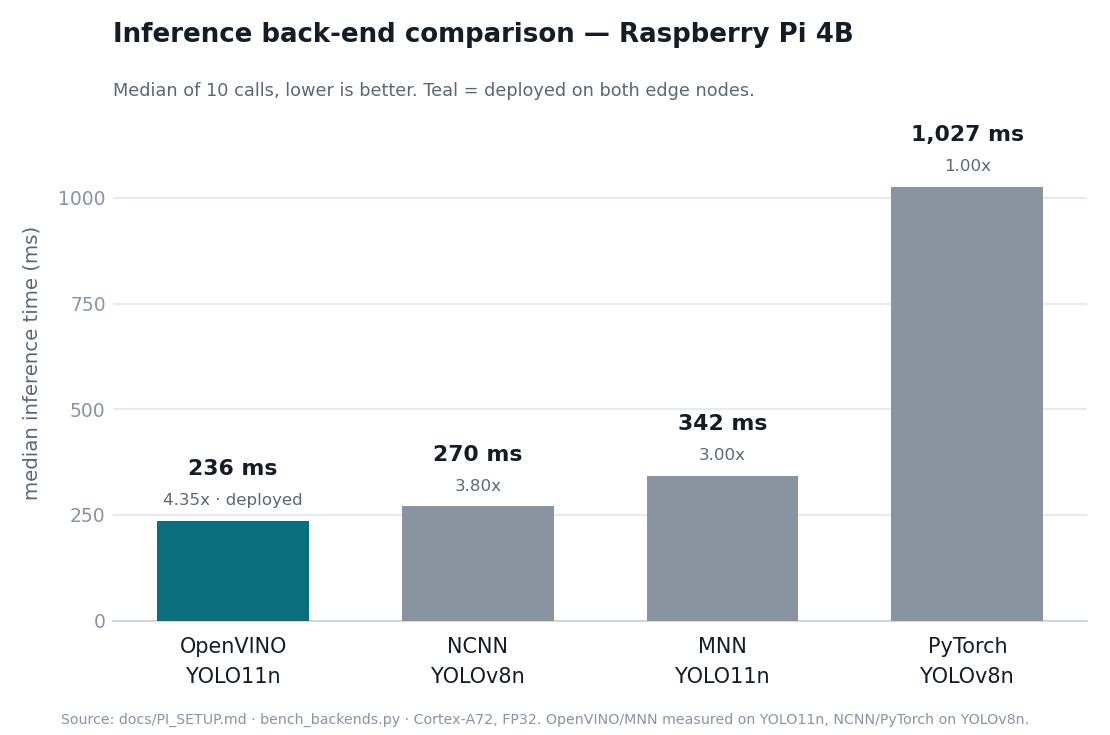
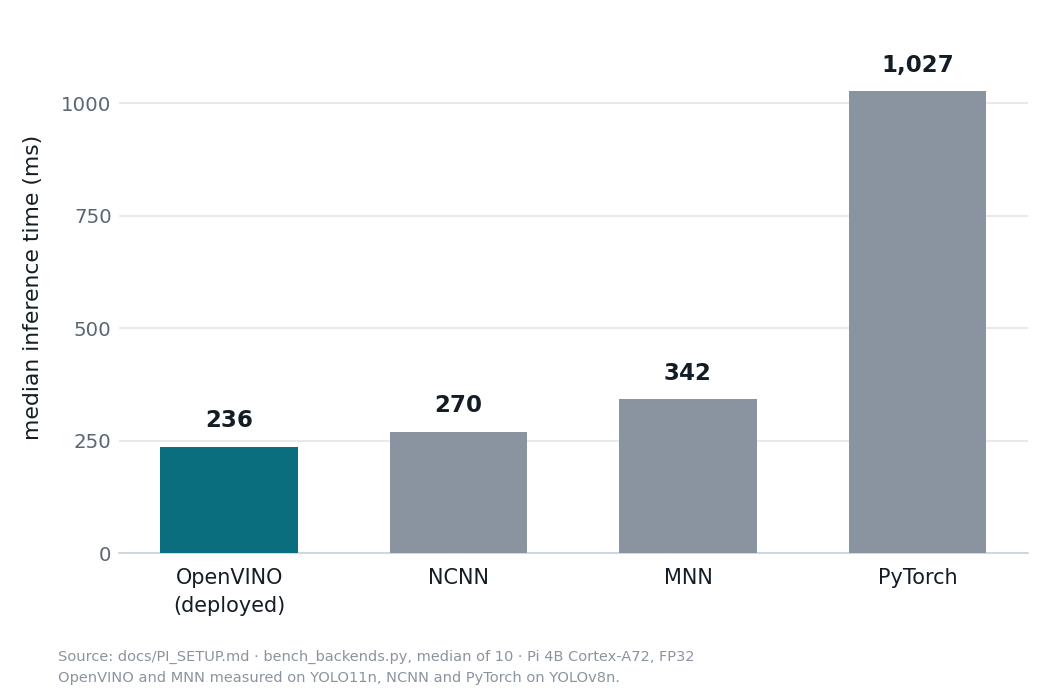
refactor: strip the back-end chart to the numbers and its source
Dropped the title, subtitle and per-bar speedup tags. The bar heights
already carry the comparison and the ms labels carry the values; "4.35x"
restated what the chart showed.

Kept: the ms value on each bar, both axis labels, the teal highlight on
the deployed back-end (now self-explaining via "(deployed)" in its tick
label rather than a legend), and the source line, which also records that
the rows are not a single controlled variable.

diff --git a/scripts/make_bench_chart.py b/scripts/make_bench_chart.py
@@ -1,12 +1,12 @@
 #!/usr/bin/env python3
-"""Bar chart of measured inference time per back-end on the Pi 4B.
+"""Measured inference time per back-end on the Pi 4B.
 
 Figures come from the bench_backends.py run recorded in docs/PI_SETUP.md
 (median of 10 calls, correctness checked before speed).
 
     python3 scripts/make_bench_chart.py
 
-Output: report/inference_backends.png  (white background, 1600x1100 @200dpi)
+Output: report/inference_backends.png  (white background)
 """
 from pathlib import Path
 
@@ -19,12 +19,12 @@ OUT = ROOT / "report" / "inference_backends.png"
 
 # docs/PI_SETUP.md — "Faster inference" benchmark table
 BACKENDS = [
-    ("OpenVINO", "YOLO11n",  236, "4.35x"),
-    ("NCNN",     "YOLOv8n",  270, "3.80x"),
-    ("MNN",      "YOLO11n",  342, "3.00x"),
-    ("PyTorch",  "YOLOv8n", 1027, "1.00x"),
+    ("OpenVINO\n(deployed)", 236),
+    ("NCNN",                 270),
+    ("MNN",                  342),
+    ("PyTorch",             1027),
 ]
-DEPLOYED = "OpenVINO"
+DEPLOYED = 0
 
 # Validated pair on a white surface: OKLab dE 18.1, worst-CVD dE 14.4,
 # contrast 5.91:1 and 3.07:1. A mid-slate neutral fails CVD (dE 1.6).
@@ -34,39 +34,27 @@ INK, MUTED, FAINT, GRID = "#141C26", "#5B6775", "#8A94A1", "#E6EAF0"
 
 def main():
     names = [b[0] for b in BACKENDS]
-    values = [b[2] for b in BACKENDS]
-    colors = [ACCENT if b[0] == DEPLOYED else NEUTRAL for b in BACKENDS]
+    values = [b[1] for b in BACKENDS]
+    colors = [ACCENT if i == DEPLOYED else NEUTRAL for i in range(len(BACKENDS))]
 
-    fig, ax = plt.subplots(figsize=(7.4, 4.9), dpi=150)
+    fig, ax = plt.subplots(figsize=(7.0, 4.6), dpi=150)
     fig.patch.set_facecolor("white")
     ax.set_facecolor("white")
 
-    bars = ax.bar(names, values, color=colors, width=0.62, zorder=3)
+    bars = ax.bar(names, values, color=colors, width=0.6, zorder=3)
 
-    # Value + speedup above each bar; 4 bars, so labelling all is appropriate.
-    for bar, (name, model, ms, mult) in zip(bars, BACKENDS):
-        x = bar.get_x() + bar.get_width() / 2
-        tag = f"{mult} · deployed" if name == DEPLOYED else mult
-        ax.annotate(f"{ms:,} ms", (x, ms), textcoords="offset points",
-                    xytext=(0, 20), ha="center", va="bottom",
-                    fontsize=10.5, fontweight="bold", color=INK)
-        ax.annotate(tag, (x, ms), textcoords="offset points",
-                    xytext=(0, 6), ha="center", va="bottom",
-                    fontsize=8, color=MUTED)
+    for bar, ms in zip(bars, values):
+        ax.annotate(f"{ms:,}", (bar.get_x() + bar.get_width() / 2, ms),
+                    textcoords="offset points", xytext=(0, 7), ha="center",
+                    va="bottom", fontsize=11, fontweight="bold", color=INK)
 
-    # Model name under each category, so the mixed-model caveat is visible.
-    ax.set_xticks(range(len(BACKENDS)))
-    ax.set_xticklabels([f"{n}\n{m}" for n, m, _, _ in
-                        [(b[0], b[1], b[2], b[3]) for b in BACKENDS]],
-                       fontsize=10, color=INK)
-    for lbl in ax.get_xticklabels():
-        lbl.set_linespacing(1.6)
-
-    ax.set_ylim(0, 1220)
+    ax.set_ylim(0, 1180)
     ax.set_yticks([0, 250, 500, 750, 1000])
-    ax.set_ylabel("median inference time (ms)", fontsize=9.5, color=MUTED, labelpad=8)
-    ax.tick_params(axis="y", labelsize=9, colors=FAINT, length=0)
-    ax.tick_params(axis="x", length=0, pad=8)
+    ax.set_ylabel("median inference time (ms)", fontsize=10.5, color=INK, labelpad=9)
+    ax.tick_params(axis="y", labelsize=9.5, colors=MUTED, length=0)
+    ax.tick_params(axis="x", labelsize=10, colors=INK, length=0, pad=7)
+    for lbl in ax.get_xticklabels():
+        lbl.set_linespacing(1.5)
 
     ax.yaxis.grid(True, color=GRID, linewidth=1, zorder=0)
     ax.set_axisbelow(True)
@@ -74,22 +62,16 @@ def main():
         ax.spines[side].set_visible(False)
     ax.spines["bottom"].set_color("#C9D1DA")
 
-    ax.set_title("Inference back-end comparison — Raspberry Pi 4B",
-                 fontsize=12.5, fontweight="bold", color=INK, pad=30, loc="left")
-    ax.text(0, 1.018, "Median of 10 calls, lower is better. Teal = deployed on both edge nodes.",
-            transform=ax.transAxes, fontsize=8.5, color=MUTED)
+    fig.text(0.055, 0.012,
+             "Source: docs/PI_SETUP.md · bench_backends.py, median of 10 · Pi 4B "
+             "Cortex-A72, FP32\nOpenVINO and MNN measured on YOLO11n, NCNN and PyTorch "
+             "on YOLOv8n.",
+             fontsize=7, color=FAINT, linespacing=1.6)
 
-    fig.text(0.055, 0.015,
-             "Source: docs/PI_SETUP.md · bench_backends.py · Cortex-A72, FP32. "
-             "OpenVINO/MNN measured on YOLO11n, NCNN/PyTorch on YOLOv8n.",
-             fontsize=6.8, color=FAINT)
-
-    fig.tight_layout(rect=[0, 0.035, 1, 1])
+    fig.tight_layout(rect=[0, 0.075, 1, 1])
     OUT.parent.mkdir(exist_ok=True)
     fig.savefig(OUT, facecolor="white", edgecolor="none")
-    print(f"  {OUT.relative_to(ROOT)}  "
-          f"{OUT.stat().st_size // 1024} KB  {fig.get_size_inches()[0]*200:.0f}"
-          f"x{fig.get_size_inches()[1]*200:.0f} px")
+    print(f"  {OUT.relative_to(ROOT)}  {OUT.stat().st_size // 1024} KB")
 
 
 if __name__ == "__main__":
